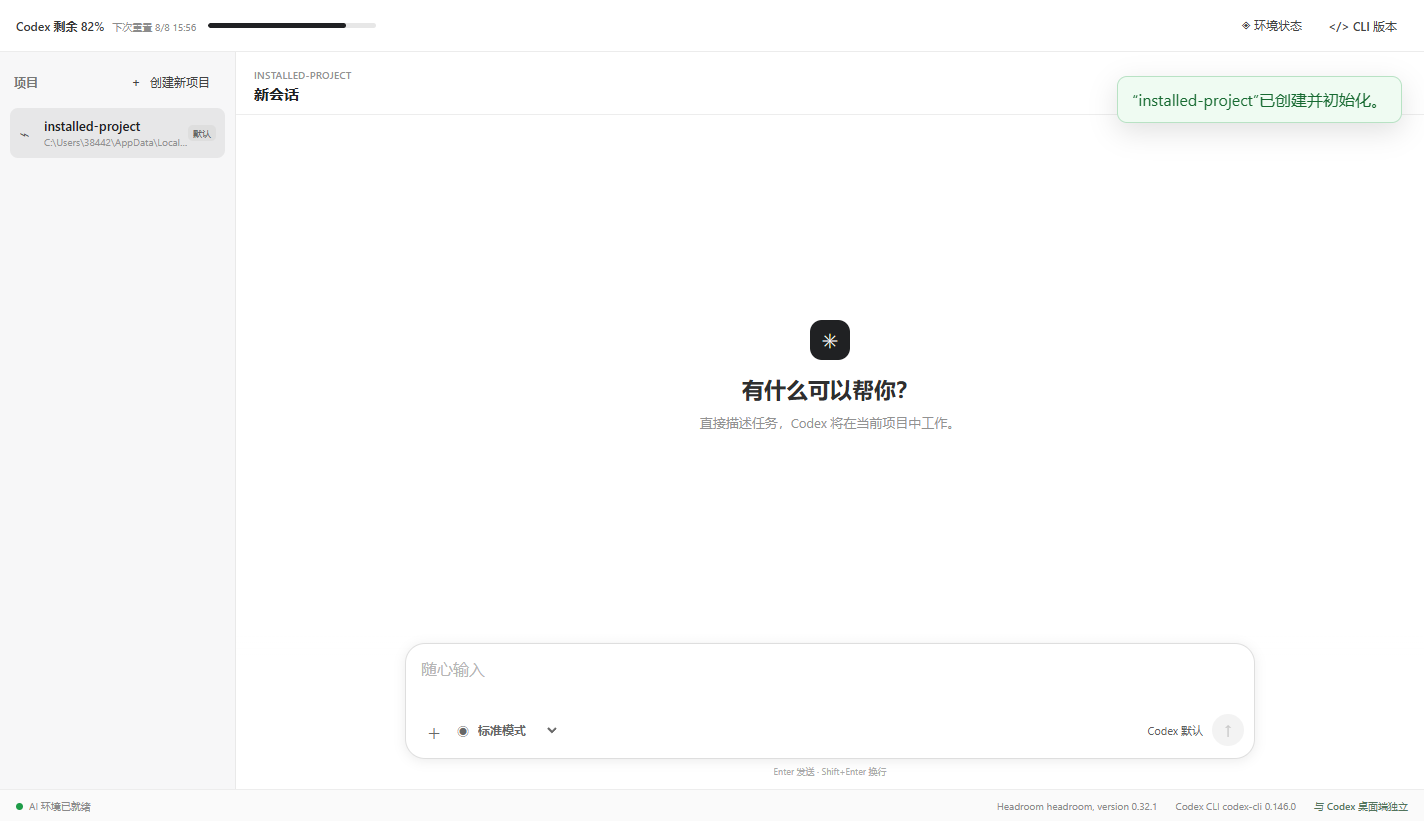
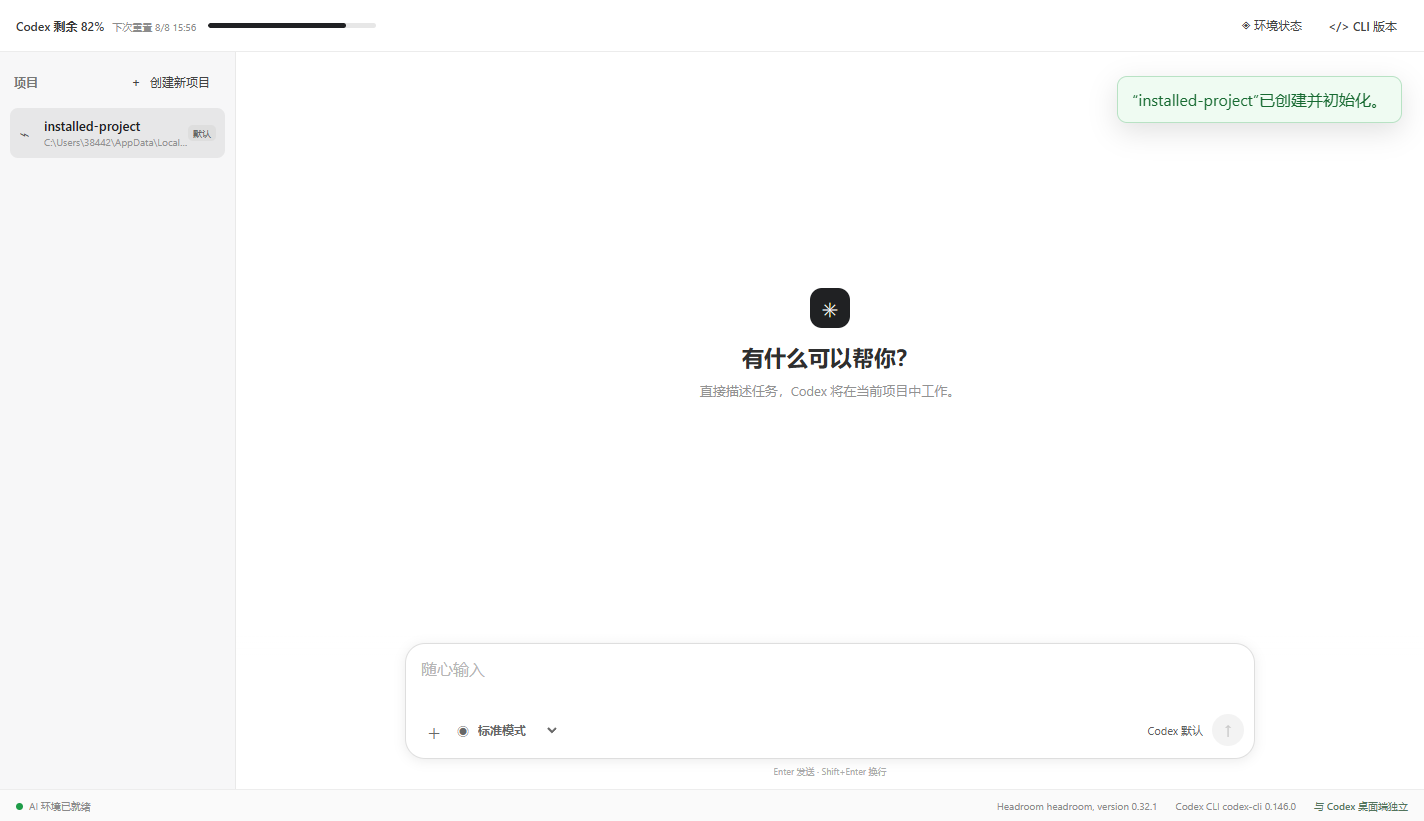
style: remove conversation header

Changed region(s): [[0.4944, 0.335, 0.6798, 0.5481], [0.1545, 0.0914, 0.2163, 0.1218]]

diff --git a/desktop/src/components/ChatWorkspace.vue b/desktop/src/components/ChatWorkspace.vue
@@ -73,7 +73,7 @@ onUnmounted(() => dispose?.());
 
 <template>
   <section class="chat-workspace">
-    <div class="conversation"><header class="conversation-header"><div><span class="workspace-kicker">{{ project.name }}</span><h2>{{ active?.name }}</h2></div></header>
+    <div class="conversation">
       <div v-if="permission === 'full'" class="risk-banner">完全访问允许 Codex 操作项目外文件且不询问审批，请确认当前任务可信。</div>
       <div class="message-list" data-testid="message-list"><div v-if="!active?.messages.length" class="chat-empty"><div class="chat-mark">✳</div><strong>有什么可以帮你？</strong><span>直接描述任务，Codex 将在当前项目中工作。</span></div><article v-for="message in active?.messages ?? []" :key="message.id" :class="['message', message.role]"><span>{{ message.role === "user" ? "你" : message.role === "assistant" ? "Codex" : message.role === "tool" ? "工具" : "状态" }}</span><pre>{{ message.text }}</pre></article></div>
       <div v-if="error" class="chat-error">{{ error }}</div>

diff --git a/desktop/src/styles.css b/desktop/src/styles.css
@@ -336,12 +336,6 @@ body { min-width: 900px; min-height: 560px; }
 .project-copy small { color: #929292; font-size: 10px; }
 .badge { padding: 2px 5px; color: #666; background: #dedede; border: 0; border-radius: 5px; font-size: 9px; }
 .chat-workspace { background: #fff; }
-.conversation-header { min-height: 58px; padding: 10px 18px; border-bottom-color: #ededed; background: #fff; }
-.conversation-header h2 { margin-top: 1px; font-size: 15px; font-weight: 600; }
-.workspace-kicker { color: #929292; font-size: 10px; font-weight: 600; letter-spacing: .02em; }
-.conversation-meta { gap: 12px; color: #8a8a8a; font-size: 11px; }
-.permission-control label { color: #777; font-size: 11px; }
-.permission-control select { height: 30px; border-color: #dedede; border-radius: 8px; color: #333; background: #fafafa; }
 .risk-banner { padding: 7px 18px; color: #8a5a16; background: #fffaf0; border-bottom-color: #f1e5ca; font-size: 11px; }
 .message-list { width: 100%; padding: 32px max(24px, calc((100% - 820px) / 2)); gap: 22px; }
 .chat-empty { color: #929292; gap: 10px; }

diff --git a/tests/test_cli.py b/tests/test_cli.py
@@ -12,7 +12,7 @@ def test_version():
     result = runner.invoke(app, ["--version"])
 
     assert result.exit_code == 0
-    assert "AI Dev Launcher 2.0.5" in result.stdout
+    assert "AI Dev Launcher 2.0.6" in result.stdout
 
 
 def test_no_args_shows_help():

diff --git a/src/ai_dev_launcher/__init__.py b/src/ai_dev_launcher/__init__.py
@@ -1,3 +1,3 @@
 """AI Dev Launcher."""
 
-__version__ = "2.0.5"
+__version__ = "2.0.6"

diff --git a/RELEASE_NOTES_2.0.6.md b/RELEASE_NOTES_2.0.6.md
@@ -1,0 +1,6 @@
+# AI Dev Launcher v2.0.6
+
+- 移除对话区顶部的项目名与会话标题栏。
+- 当前项目继续通过左侧项目选中状态显示。
+- 对话区域获得更多垂直空间，界面更加简洁。
+
